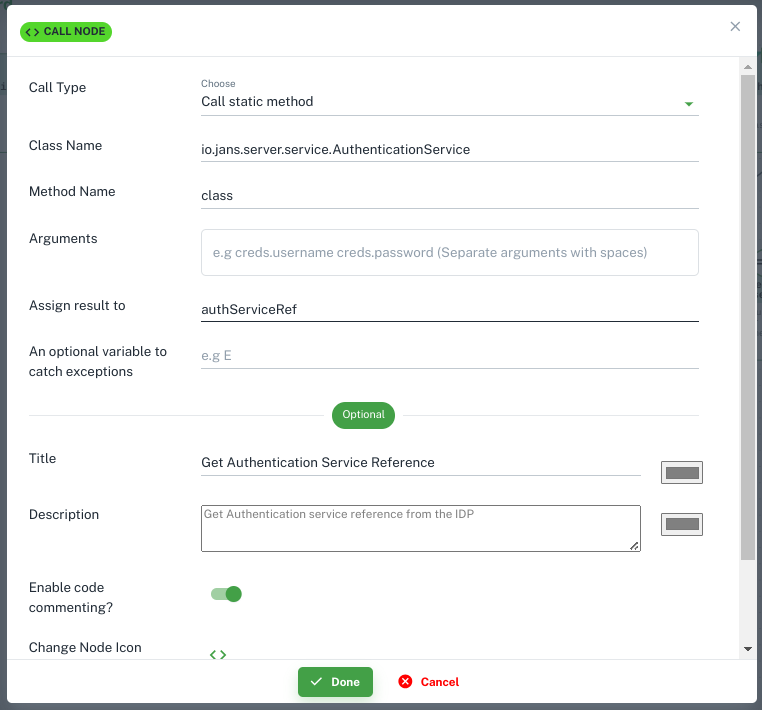
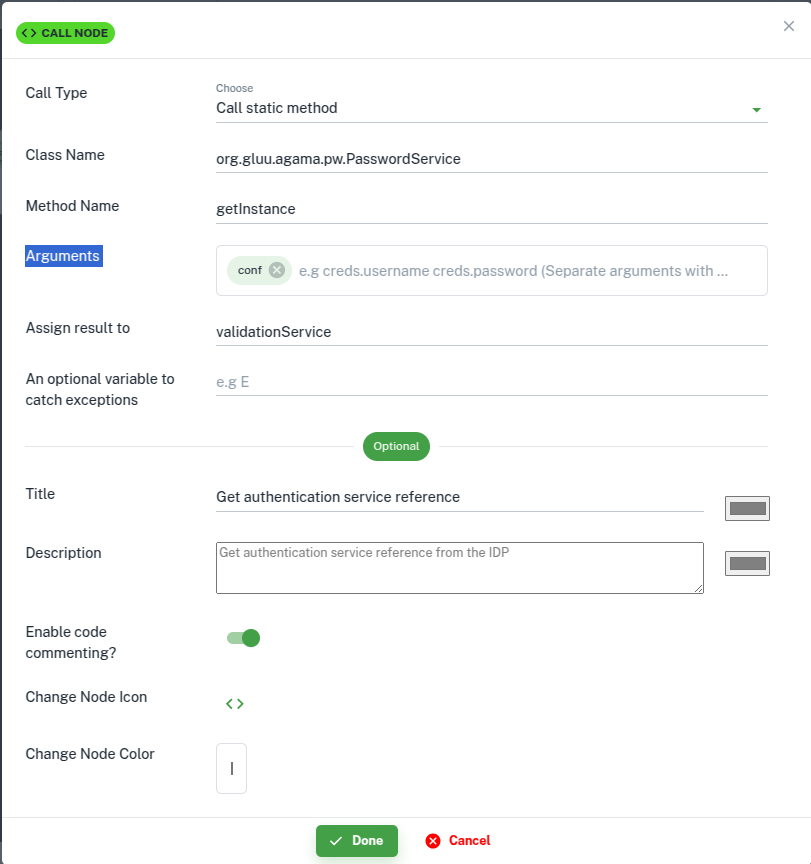
fix(docs): update the flow

diff --git a/docs/janssen-server/developer/agama/quick-start-using-agama-lab.md b/docs/janssen-server/developer/agama/quick-start-using-agama-lab.md
@@ -115,7 +115,7 @@ from this project listing page.
     flow editor. Refer to [this](https://gluu.org/agama/project-editor/) guide if you need to understand how 
     to create, delete and configure nodes.
 
-2. Create `AuthenticationService` Call block
+2. Create `PasswordService` Call block
 
     Drag the colored dot available on the right edge of the `start` node to 
     create the next node in the flow. A list of available node types will be
@@ -131,15 +131,17 @@ from this project listing page.
     Click the `Call` block and then click :material-pencil: to open the 
     configuration screen. Add configuration values as shown below.  
     This configuration will fetch a reference of the 
-    `AuthenticationService` class and 
-    store the reference in a variable called `authServiceRef`. This reference will 
+    `PasswordService` class and 
+    store the reference in a variable called `validationService`. This reference will 
     be used to validate the user credentials in the subsequent steps.
 
-    `class name`: `io.jans.server.service.AuthenticationService`
+    `class name`: `org.gluu.agama.pw.PasswordService`
 
-    `method name`: `class`
+    `method name`: `getInstance`
 
-    `assign result to`: `authServiceRef`
+    `Arguments` : `conf`
+
+    `assign result to`: `validationService`
 
     `title`: `Get authentication service reference`
 
@@ -148,36 +150,13 @@ from this project listing page.
    
     ![](../../../assets/agamalab-flow-passwd-edit-call.png)
 
-3.  Create `CdiUtil` Call block
 
-    To perform authentication we will also need a reference of the `CdiUtil` class. To fetch a `CdiUtil`
-    reference from the IDP, we will need to pass `AuthenticationService` reference 
-    as an input. Use the steps and configuration below to do this.
-
-    After the `AuthenticationService` create a new `Call` node.
-   
-    Click on the newly created `Call` block and by clicking :material-pencil: open the configuration page.
-    Input values as shown below in the configuration screen.
-
-    `class name`: `io.jans.service.cdi.util.CdiUtil`
-
-    `method name`: `bean`
-
-    `arguments`: `authServiceRef`
-
-    `assign result to`: `cdiUtilRef`
-
-    `title`: `Get authentication service reference`
-    
-    `description`: `Get authentication service reference from the IDP`
-
-    ![](../../../assets/agamalab-flow-passwd-editcdiutil.png)
 
 4. Create Assignment block
 
     Next, we need to create an empty variable that the flow will use in the future to store authentication results. 
 
-    Create an `Assignment` block after the `CdiUtil` call block and configure it as shown below.
+    Create an `Assignment` block after the `PasswordService` call block and configure it as shown below.
 
     ![](../../../assets/agamalab-flow-passwd-edit-assignment.png)
 
@@ -247,7 +226,7 @@ from this project listing page.
     Click on the newly created `Call` block. Click :material-pencil:. 
     Configure it as shown below.
 
-    ![](../../../assets/agamalab-flow-passwd-edit-cdiutil-instance.png)
+    ![](../../../assets/agamalab-flow-passwd-edit-validationService-instance.png)
 
 8. Create an Assignment block
 
